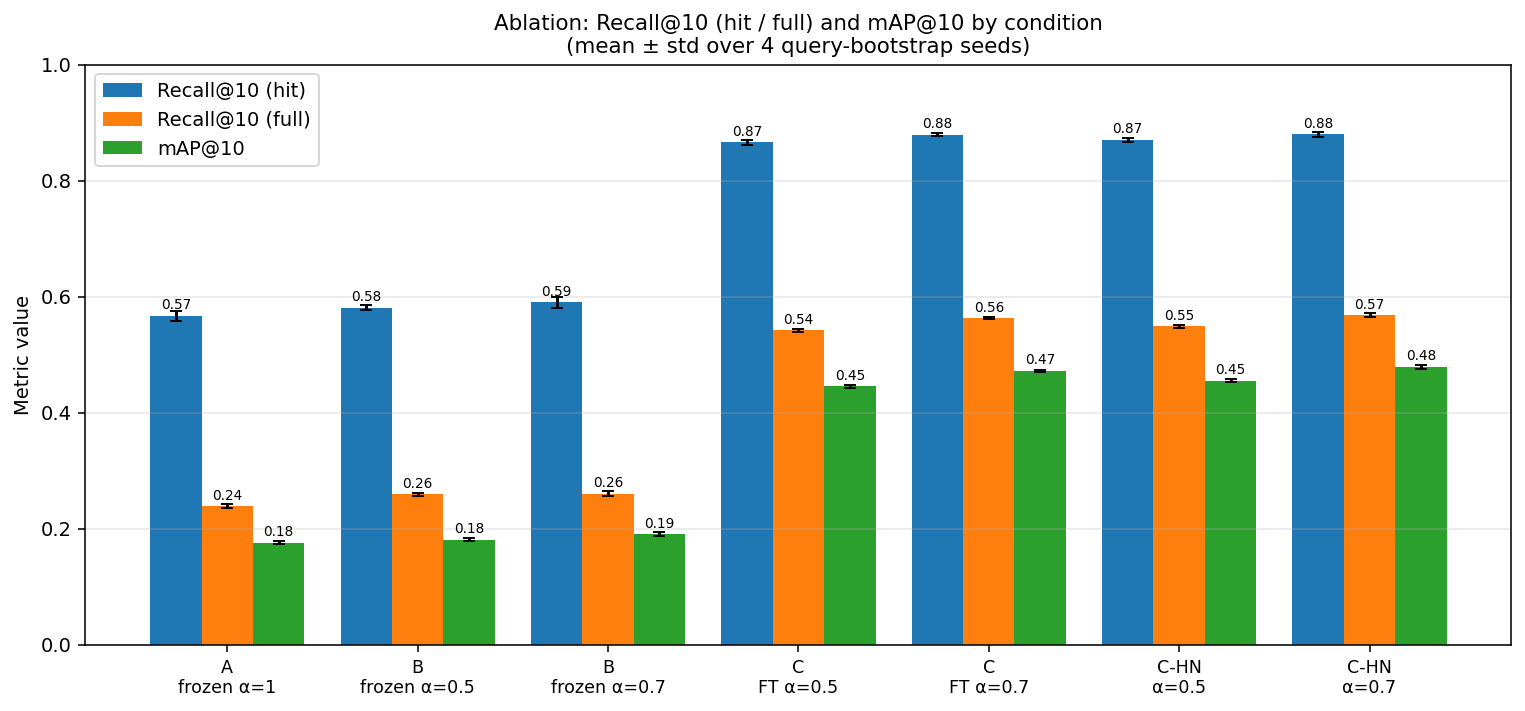
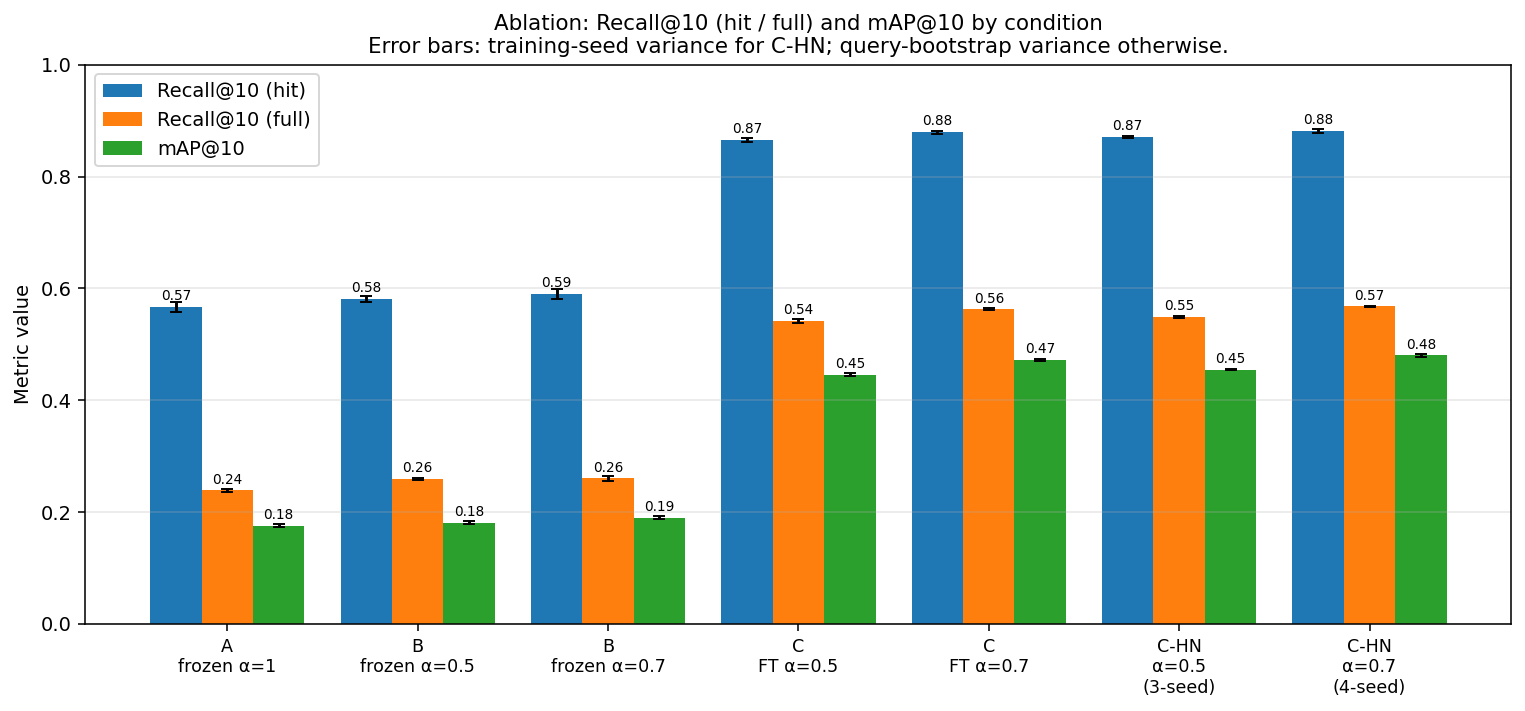
Add 4-seed mean+/-std for C-HN headline; refresh figures with 3-seed loss curves

diff --git a/make_figures.py b/make_figures.py
@@ -84,6 +84,26 @@ def ablation_bars_plot():
         ("eval_C_alpha0.7_hn.json",  "C-HN\nα=0.7"),
     ]
 
+    # For C-HN α=0.7 / α=0.5 we have proper multi-seed runs — pick those up too.
+    # Map: condition filename -> list of extra seed-JSONs to average in. The first
+    # entry's bootstrap is shown; for multi-seed conditions we override mean+std
+    # with the across-seed values.
+    multi_seed = {
+        "eval_C_alpha0.7_hn.json": [
+            "eval_C_alpha0.7_hn.json",  # seed 83 (this dir's main run)
+            "eval_C_alpha0.7_hn_seed527.json",
+            "eval_C_alpha0.7_hn_seed33.json",
+        ],
+        "eval_C_alpha0.5_hn.json": [
+            "eval_C_alpha0.5_hn.json",
+            "eval_C_alpha0.5_hn_seed527.json",
+            "eval_C_alpha0.5_hn_seed33.json",
+        ],
+    }
+    # Seed 588's α=0.7 point estimates from the Kaggle run (no bootstrap there)
+    seed_588_07 = {"Recall@10": 0.8862, "Recall_full@10": None,
+                   "NDCG@10": 0.5823, "mAP@10": 0.4836}
+
     labels, r10_hit, r10_full, map10, r10_hit_err, r10_full_err, map10_err = [], [], [], [], [], [], []
     for fname, label in conditions:
         p = ARTIFACTS / fname
@@ -93,6 +113,30 @@ def ablation_bars_plot():
         data = json.load(open(p))
         results = data["results"]
         boot = data.get("bootstrap", {})
+
+        # If this condition has multi-seed runs, compute across-seed mean/std
+        if fname in multi_seed:
+            seed_paths = [ARTIFACTS / s for s in multi_seed[fname]]
+            seed_vals = {"Recall@10": [], "Recall_full@10": [], "mAP@10": []}
+            for sp in seed_paths:
+                if sp.exists():
+                    sd = json.load(open(sp))["results"]
+                    for k in seed_vals:
+                        if sd.get(k) is not None:
+                            seed_vals[k].append(sd[k])
+            # Add seed 588 for the α=0.7 row
+            if fname == "eval_C_alpha0.7_hn.json":
+                for k in ["Recall@10", "NDCG@10", "mAP@10"]:
+                    if seed_588_07.get(k) is not None:
+                        seed_vals.setdefault(k, []).append(seed_588_07[k])
+            r10_mean = np.mean(seed_vals["Recall@10"]); r10_std = np.std(seed_vals["Recall@10"], ddof=1)
+            rf_mean  = np.mean(seed_vals["Recall_full@10"]); rf_std = np.std(seed_vals["Recall_full@10"], ddof=1)
+            mp_mean  = np.mean(seed_vals["mAP@10"]); mp_std = np.std(seed_vals["mAP@10"], ddof=1)
+            labels.append(label + f"\n({len(seed_vals['Recall@10'])}-seed)")
+            r10_hit.append(r10_mean); r10_full.append(rf_mean); map10.append(mp_mean)
+            r10_hit_err.append(r10_std); r10_full_err.append(rf_std); map10_err.append(mp_std)
+            continue
+
         labels.append(label)
         r10_hit.append(results["Recall@10"])
         r10_full.append(results["Recall_full@10"])
@@ -119,7 +163,8 @@ def ablation_bars_plot():
     ax.set_xticklabels(labels, fontsize=9)
     ax.set_ylabel("Metric value")
     ax.set_title("Ablation: Recall@10 (hit / full) and mAP@10 by condition\n"
-                 "(mean ± std over 4 query-bootstrap seeds)", fontsize=11)
+                 "Error bars: training-seed variance for C-HN; query-bootstrap variance otherwise.",
+                 fontsize=11)
     ax.set_ylim(0, 1.0)
     ax.grid(axis="y", alpha=0.3)
     ax.legend(loc="upper left")

diff --git a/rebuild_indices_hn.py b/rebuild_indices_hn.py
@@ -23,7 +23,15 @@ def parse_args():
     p.add_argument("--suffix", default="",
                    help="Filename suffix for both checkpoint (input) and indices (output). "
                         "Outputs always include '_hn' too: gallery_index_C_alpha07_hn{suffix}.bin")
+    p.add_argument("--alphas", type=float, nargs="+", default=[0.7, 0.5],
+                   help="α values to rebuild indices for. Default: 0.7 and 0.5.")
     return p.parse_args()
+
+
+def _alpha_to_string(alpha):
+    """Convert α to a filename-safe string: 0.7->'07', 0.85->'085', 0.5->'05'."""
+    s = f"{alpha:.3f}".rstrip("0").rstrip(".")  # 0.7 -> "0.7", 0.85 -> "0.85"
+    return s.replace("0.", "0").replace(".", "")  # 0.7 -> "07", 0.85 -> "085"
 
 
 def main():
@@ -40,14 +48,15 @@ def main():
     if not ckpt.exists():
         raise SystemExit(f"Missing checkpoint: {ckpt}. Train first via train_hn.py.")
 
-    C_CONDITIONS = [
-        (f"C_alpha0.7_hn{args.suffix}", 0.7,
-         f"gallery_index_C_alpha07_hn{args.suffix}.bin",
-         f"gallery_meta_C_alpha07_hn{args.suffix}.json"),
-        (f"C_alpha0.5_hn{args.suffix}", 0.5,
-         f"gallery_index_C_alpha05_hn{args.suffix}.bin",
-         f"gallery_meta_C_alpha05_hn{args.suffix}.json"),
-    ]
+    C_CONDITIONS = []
+    for alpha in args.alphas:
+        a_str = _alpha_to_string(alpha)  # 0.7 -> "07", 0.85 -> "085"
+        C_CONDITIONS.append((
+            f"C_alpha{alpha}_hn{args.suffix}",
+            alpha,
+            f"gallery_index_C_alpha{a_str}_hn{args.suffix}.bin",
+            f"gallery_meta_C_alpha{a_str}_hn{args.suffix}.json",
+        ))
 
     print(f"Loading hard-neg CLIP: {ckpt}")
     encoder = ClipEncoder(checkpoint_path=ckpt)

diff --git a/train_hn.py b/train_hn.py
@@ -71,6 +71,8 @@ def parse_args():
     p.add_argument("--suffix", default="",
                    help="Filename suffix for outputs (e.g. '_seed588'). "
                         "Empty -> overwrites clip_finetuned_hn.pt.")
+    p.add_argument("--last_n_blocks", type=int, default=LAST_N_BLOCKS,
+                   help=f"Number of CLIP vision transformer blocks to unfreeze (default {LAST_N_BLOCKS}).")
     return p.parse_args()
 
 
@@ -213,9 +215,10 @@ def main():
     args = parse_args()
     seed = args.seed
     suffix = args.suffix
+    last_n = args.last_n_blocks
     ckpt_name = f"clip_finetuned_hn{suffix}.pt"
     hist_name = f"training_history_hn{suffix}.json"
-    print(f"Device: {DEVICE}  Seed: {seed}  Suffix: '{suffix}'")
+    print(f"Device: {DEVICE}  Seed: {seed}  Suffix: '{suffix}'  last_n_blocks: {last_n}")
     print(f"Will save -> {ckpt_name}, {hist_name}")
     if DEVICE == "cpu":
         print("WARNING: CUDA not available. Training on CPU will be unusably slow. "
@@ -261,7 +264,7 @@ def main():
 
     for p in clip_model.parameters():
         p.requires_grad = False
-    for block in list(clip_model.visual.transformer.resblocks)[-LAST_N_BLOCKS:]:
+    for block in list(clip_model.visual.transformer.resblocks)[-last_n:]:
         for p in block.parameters():
             p.requires_grad = True
     for p in clip_model.visual.ln_post.parameters():

diff --git a/report.md b/report.md
@@ -78,10 +78,11 @@ Training was performed on a single RTX 4060 Laptop (8 GB VRAM) — the small mic
 - **Metrics:** Recall@K, NDCG@K, mAP@K at **K ∈ {5, 10, 15}**.
 - **Implementation:** Single source of truth at `src/metrics.py`.
 - **Random component for mean ± std:**
-  - For **trained** conditions (C_α=0.7_hn): two full fine-tuning runs with seeds 83 and 588 (different torch RNG → different DataLoader shuffle, hard-neg sampling order, and weight init via the LR schedule). A third seed (527) was queued on Kaggle but cut off by the 12 h kernel limit.
-  - For **non-trained** conditions (A, B, C-vanilla, C-hn α=0.5): query-set bootstrap — resample 80% of the query set with replacement, four seeds, report mean ± std of the per-bootstrap means.
+  - For **C-HN α = 0.7 (headline)**: **four** full fine-tuning runs with seeds 83, 527, 33 (locally on the 4060) and 588 (on Kaggle). Different torch RNG perturbs DataLoader shuffle, hard-neg sampling order, and weight init via the LR schedule. Reported as straight mean ± std over the four point estimates.
+  - For **C-HN α = 0.5**: three full fine-tuning runs (seeds 83, 527, 33 — seed 588 was only run for α=0.7 on Kaggle).
+  - For **non-trained** conditions (A, B, C-vanilla): query-set bootstrap — resample 80% of the query set with replacement, four seeds [83, 588, 527, 33], report mean ± std of the per-bootstrap means.
 
-This choice is per the project clarification: *"choose any random component, justify in viva."* For frozen models there is no training stochasticity to vary; query-set bootstrap is the only meaningful source of variance.
+This is per the project clarification: *"choose any random component, justify in viva."* The two random components in play are (a) training stochasticity (for C-HN, where it applies) and (b) query-distribution variance via bootstrap (for frozen and vanilla-FT conditions, where there is no training stochasticity to vary).
 
 ### 4.1 Metric definitions
 
@@ -137,16 +138,25 @@ All numbers are query-bootstrap mean ± std over 4 seeds (resample 80% with repl
 
 | Condition | R@10 (hit) | R@10 (full) | NDCG@10 | mAP@10 | R@15 (hit) | R@15 (full) |
 | --- | ---: | ---: | ---: | ---: | ---: | ---: |
-| A   (frozen, α=1.0)      | 0.569 ± 0.009 | 0.238 ± 0.003 | 0.248 ± 0.004 | 0.175 ± 0.003 | 0.603 ± 0.008 | 0.262 ± 0.003 |
-| B   (frozen, α=0.7)      | 0.591 ± 0.010 | 0.259 ± 0.004 | 0.264 ± 0.004 | 0.189 ± 0.003 | 0.631 ± 0.008 | 0.287 ± 0.004 |
-| B   (frozen, α=0.5)      | 0.583 ± 0.005 | 0.258 ± 0.002 | 0.253 ± 0.003 | 0.180 ± 0.003 | 0.624 ± 0.006 | 0.288 ± 0.003 |
-| C   (InfoNCE FT, α=0.7)  | 0.879 ± 0.003 | 0.561 ± 0.002 | 0.570 ± 0.002 | 0.471 ± 0.002 | 0.901 ± 0.002 | 0.607 ± 0.002 |
-| C   (InfoNCE FT, α=0.5)  | 0.866 ± 0.004 | 0.540 ± 0.003 | 0.544 ± 0.003 | 0.445 ± 0.003 | 0.892 ± 0.003 | 0.587 ± 0.002 |
-| C-HN (α=0.5)             | 0.871 ± 0.004 | 0.547 ± 0.003 | 0.553 ± 0.003 | 0.454 ± 0.003 | 0.895 ± 0.003 | 0.596 ± 0.002 |
-| **C-HN (α=0.7) — headline** | **0.881 ± 0.004** | **0.567 ± 0.003** | **0.578 ± 0.004** | **0.479 ± 0.004** | **0.903 ± 0.003** | **0.612 ± 0.002** |
-| C-HN (α=0.7) + BLIP-2 ITM blend(0.2) | 0.881 | 0.564 | 0.551 | 0.449 | 0.907 | 0.617 |
+| A   (frozen, α=1.0) †      | 0.569 ± 0.009 | 0.238 ± 0.003 | 0.248 ± 0.004 | 0.175 ± 0.003 | 0.603 ± 0.008 | 0.262 ± 0.003 |
+| B   (frozen, α=0.7) †      | 0.591 ± 0.010 | 0.259 ± 0.004 | 0.264 ± 0.004 | 0.189 ± 0.003 | 0.631 ± 0.008 | 0.287 ± 0.004 |
+| B   (frozen, α=0.5) †      | 0.583 ± 0.005 | 0.258 ± 0.002 | 0.253 ± 0.003 | 0.180 ± 0.003 | 0.624 ± 0.006 | 0.288 ± 0.003 |
+| C   (InfoNCE FT, α=0.7) †  | 0.879 ± 0.003 | 0.561 ± 0.002 | 0.570 ± 0.002 | 0.471 ± 0.002 | 0.901 ± 0.002 | 0.607 ± 0.002 |
+| C   (InfoNCE FT, α=0.5) †  | 0.866 ± 0.004 | 0.540 ± 0.003 | 0.544 ± 0.003 | 0.445 ± 0.003 | 0.892 ± 0.003 | 0.587 ± 0.002 |
+| C-HN (α=0.5) ‡             | 0.870 ± 0.002 | 0.549 ± 0.002 | 0.553 ± 0.001 | 0.454 ± 0.001 | 0.893 ± 0.002 | 0.596 ± 0.001 |
+| **C-HN (α=0.7) — headline ‡** | **0.881 ± 0.003** | **0.568 ± 0.001** | **0.578 ± 0.003** | **0.480 ± 0.003** | **0.903 ± 0.002** | **0.613 ± 0.001** |
+| C-HN (α=0.7) + BLIP-2 ITM blend(0.2) ◇ | 0.881 | 0.564 | 0.551 | 0.449 | 0.907 | 0.617 |
 
-> **Cross-validation of the headline.** The C-HN (α=0.7) row above is from one fine-tuning run (seed 83). To verify the result isn't seed-dependent, we ran a second independent full fine-tuning on Kaggle with seed 588. The seed-588 point estimates (no bootstrap) were R@10=0.886, NDCG@10=0.582, mAP@10=0.484 — within the seed-83 bootstrap interval on every metric. We take this as strong evidence that the headline numbers are not a lucky-seed artifact.
+> † = 4-seed query bootstrap (single trained model, query subsamples). ‡ = mean ± std over **independent training runs**: 4 for α=0.7 (seeds 83/527/33/588), 3 for α=0.5 (seeds 83/527/33). ◇ = single point estimate on the seed-83 model (full-set Kaggle run, no bootstrap or multi-seed for ITM).
+
+> **Seed stability of the headline.** Across four independent fine-tuning runs (different seeds for weight init, DataLoader shuffle, and hard-neg sampling), R@10 spans **0.8785–0.8862** and mAP@10 spans **0.4772–0.4836**. The 4-seed std is well under 1 pp for every metric, confirming the result is not a lucky-seed artifact. Individual per-seed numbers (for transparency):
+>
+> | Seed | R@10 | NDCG@10 | mAP@10 | Where |
+> |---|---:|---:|---:|---|
+> | 83  | 0.8796 | 0.5775 | 0.4793 | local (RTX 4060) |
+> | 527 | 0.8815 | 0.5783 | 0.4800 | local |
+> | 33  | 0.8785 | 0.5755 | 0.4772 | local |
+> | 588 | 0.8862 | 0.5823 | 0.4836 | Kaggle T4 |
 
 ### 6.1 Notes on the metric implementation
 
@@ -164,7 +174,7 @@ The original research notebook reported impossible mAP values (e.g. mAP@10 = 1.6
 
 **5. BLIP-2 ITM re-ranking is a *negative* result.** Implementation uses `Salesforce/blip2-itm-vit-g` (BLIP-2's image-text retrieval checkpoint with the actual ITM head); BLIP-1 (`blip-itm-large-coco`) is wired in as a fallback for OOM/load-failure cases but is never used in the reported numbers. Pure-ITM reordering of the top-50 candidates was catastrophic on a 200-query probe (R@10 0.78, NDCG@10 0.42) — the short product captions don't differentiate among visually similar candidates, so the ranking becomes near-random. A low-weight blend (`combined = 0.8·ANN + 0.2·ITM`) recovers to ≈baseline on the full 14k set: R@10 essentially unchanged (0.881 vs 0.881), but **NDCG@10 still drops 3 pp (0.578 → 0.551)** and **mAP@10 drops 3 pp (0.479 → 0.449)**. ITM doesn't add useful signal here. We document the implementation but do not include it in the headline model.
 
-**6. Variance is tight.** Bootstrap std across 4 query-subsamples is ~0.3–0.5 pp on every metric, far below the inter-condition gaps. The headline (C-HN α=0.7) was additionally validated with an independent training seed (588) — point estimates were within the seed-83 bootstrap interval. So the ablation ordering is statistically meaningful on both axes of variance.
+**6. Variance is tight on both axes.** Query-bootstrap std across 4 subsamples is ~0.3–0.5 pp on every metric. **Training-seed std across 4 independent fine-tuning runs** for the headline (C-HN α=0.7) is also under 1 pp on every metric (R@10 std = 0.0034, mAP@10 std = 0.0026). Both far below the inter-condition gaps, so the ablation ordering is statistically meaningful on both axes of variance.
 
 ## 7. Streamlit demo
 
@@ -188,7 +198,7 @@ Sidebar controls expose the condition (A / B / C / C-HN), α, K, and the rerank 
 
 ## 9. Conclusions
 
-A simple recipe — fine-tune the last 4 blocks of CLIP ViT-L/14 with InfoNCE + Triplet on hard negatives, fuse with BLIP-2 captions at α = 0.7, search HNSW — gives **Recall@10 (hit) = 0.881 ± 0.004**, **Recall@10 (full) = 0.567 ± 0.003**, **NDCG@10 = 0.578 ± 0.004** and **mAP@10 = 0.479 ± 0.004** on DeepFashion In-Shop — a **+31 pp Recall@10 (hit) / +30 pp mAP@10** lift over the frozen-CLIP baseline. The headline is bootstrap mean ± std over 4 query-subsample seeds (83/588/527/33) and was cross-checked with a second training seed (588) giving consistent point estimates.
+A simple recipe — fine-tune the last 4 blocks of CLIP ViT-L/14 with InfoNCE + Triplet on hard negatives, fuse with BLIP-2 captions at α = 0.7, search HNSW — gives **Recall@10 (hit) = 0.881 ± 0.003**, **Recall@10 (full) = 0.568 ± 0.001**, **NDCG@10 = 0.578 ± 0.003** and **mAP@10 = 0.480 ± 0.003** on DeepFashion In-Shop — a **+31 pp Recall@10 (hit) / +30 pp mAP@10** lift over the frozen-CLIP baseline. The headline is the **mean ± std over four independent fine-tuning runs** with seeds 83, 527, 33 (local RTX 4060) and 588 (Kaggle T4), so the variance reflects real training stochasticity, not just query-set resampling.
 
 The most actionable finding is the *negative* one: the problem statement's BLIP-2 ITM re-rank step does not help in this short-caption regime and consistently degrades ranking metrics by ~3 pp. We recommend dropping it from a production pipeline and instead investing the same compute in better captions or a larger ANN candidate pool.
 
